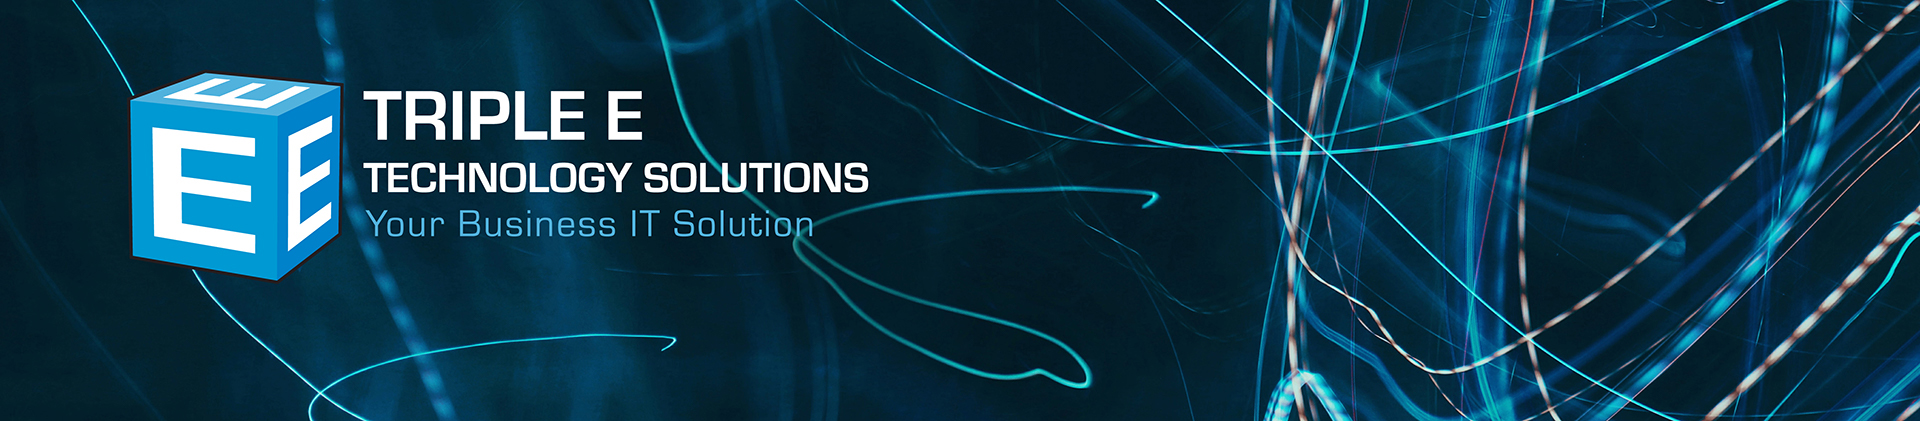
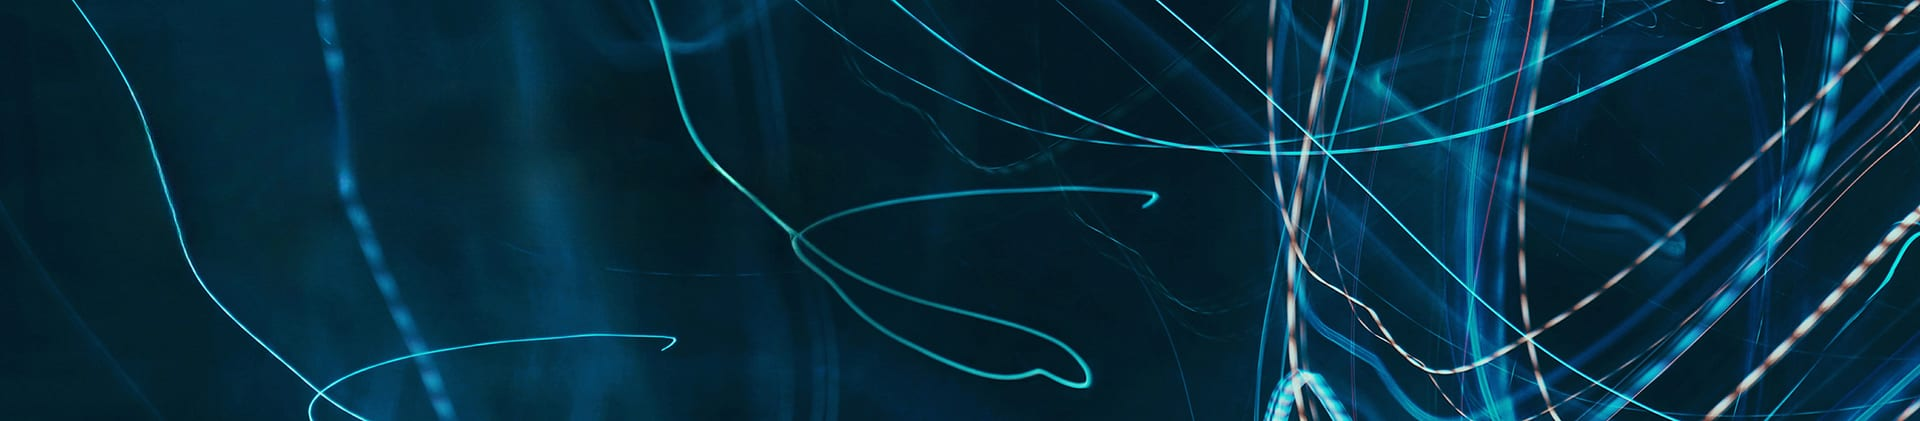
feat(images): replace placeholder art with optimized real photography
Swaps the placeholder assets for real imagery and brings every source file
down to a sensible size. Several placeholders were not images at all:
consulting-partnership.jpg and mdr-partnership.jpg were one-line text
files, msp-partnership.jpg and security-partnership.jpg were SVGs with a
.jpg extension, and team-collaboration.jpg was a 1x1 pixel.

The homepage service cards were hotlinking Unsplash at a hardcoded
w=400&h=250, capping the source at 400px for a slot that renders 384px
CSS -- soft on any 2x display, and a third-party dependency on the
homepage. They are now local files.

Every source is re-encoded to progressive mozjpeg q82 and capped at ~2x
the largest width it ever renders at (1920 for full-bleed backgrounds,
1400 for the 600x500 content slots, 1200 for the service cards). The
originals were full-resolution downloads, up to 7360px and 7.7 MB each.

Total: 20.9 MB -> 1.1 MB, 94.7% smaller, with no visible change at any
rendered size.

Also drops four unreferenced icons (company, detection, training,
logo-lg) and the orphaned hero-xl.png now that hero-xl.jpg replaces it,
and fixes two dead links: the Hero CTA pointed at /services and the
About Us quick link at /partners, neither of which is a route.

diff --git a/src/components/ServiceSnippets/ServiceSnippets.tsx b/src/components/ServiceSnippets/ServiceSnippets.tsx
@@ -8,24 +8,21 @@ const ServiceSnippets = () => {
       title: 'Cybersecurity',
       description:
         "Cybersecurity doesn't have to be overwhelming. At the heart of every strong defense is a secure foundation—one that protects your data, prepares your team, and puts the right tools in...",
-      image:
-        'https://images.unsplash.com/photo-1558494949-ef010cbdcc31?w=400&h=250&fit=crop&auto=format',
+      image: '/images/homepage-service-card-cybersecurity.jpg',
     },
     {
       id: 2,
       title: 'Consulting Services',
       description:
         "At Triple E Technology Solutions, we don't just fix problems—we help you build the right tech foundation to grow, thrive, and innovate. We partner with businesses to deliver efficient, effective IT solutions tailored to your...",
-      image:
-        'https://images.unsplash.com/photo-1454165804606-c3d57bc86b40?w=400&h=250&fit=crop&auto=format',
+      image: '/images/homepage-service-card-consulting.jpg',
     },
     {
       id: 3,
       title: 'Managed Service Provider',
       description:
         "At Triple E Technology Solutions, we believe great technology shouldn't just run your business—it should empower it. As your Managed Service Provider (MSP), we take the stress out of...",
-      image:
-        'https://images.unsplash.com/photo-1550751827-4bd374c3f58b?w=400&h=250&fit=crop&auto=format',
+      image: '/images/homepage-service-card-msp.jpg',
     },
   ];
 

diff --git a/src/components/Hero/Hero.tsx b/src/components/Hero/Hero.tsx
@@ -11,7 +11,7 @@ const Hero = () => {
         {/* Background Image with Next.js Optimization */}
         <div className={styles.imageWrapper}>
           <Image
-            src='/images/hero-xl.png'
+            src='/images/hero-xl.jpg'
             alt='Triple E Tech: Blue and green abstract technology background with electrical current patterns'
             fill
             priority
@@ -50,7 +50,10 @@ const Hero = () => {
               <Link href='/contact' className={styles.primaryCta}>
                 Get Started
               </Link>
-              <Link href='/services' className={styles.secondaryCta}>
+              <Link
+                href='/managed-service-provider'
+                className={styles.secondaryCta}
+              >
                 Our Services
               </Link>
             </div>

diff --git a/src/app/about-us/page.tsx b/src/app/about-us/page.tsx
@@ -73,7 +73,7 @@ const CompanyPage = () => {
     {
       title: 'Our Partners',
       description: 'Industry leaders we work with',
-      href: '/partners',
+      href: '/#partners',
       icon: '/icons/partners-icon.svg',
     },
     {
@@ -308,7 +308,7 @@ const CompanyPage = () => {
               </div>
               <div className={styles.whyUsImage}>
                 <Image
-                  src='/images/team-collaboration.jpg'
+                  src='/images/why-triple-e.jpg'
                   alt='Triple E team collaborating on technology solutions'
                   width={600}
                   height={500}

diff --git a/src/app/cybersecurity/page.tsx b/src/app/cybersecurity/page.tsx
@@ -240,7 +240,7 @@ const CybersecurityPage = () => {
               </div>
               <div className={styles.whyUsImage}>
                 <Image
-                  src='/images/security-partnership.jpg'
+                  src='/images/cybersecurity-approach.jpg'
                   alt='Cybersecurity team working together to protect business systems'
                   width={600}
                   height={500}

diff --git a/src/app/managed-service-provider/page.tsx b/src/app/managed-service-provider/page.tsx
@@ -250,7 +250,7 @@ const ManagedServiceProviderPage = () => {
               </div>
               <div className={styles.whyUsImage}>
                 <Image
-                  src='/images/msp-partnership.jpg'
+                  src='/images/managed-services-team.jpg'
                   alt='Triple E team providing managed IT services support'
                   width={600}
                   height={500}

diff --git a/src/components/CybersecurityHero/CybersecurityHero.tsx b/src/components/CybersecurityHero/CybersecurityHero.tsx
@@ -11,7 +11,7 @@ const CybersecurityHero = () => {
         {/* Background Image with Next.js Optimization */}
         <div className={styles.imageWrapper}>
           <Image
-            src='/images/surveillance.jpg'
+            src='/images/homepage-cybersecurity.jpg'
             alt='Triple E Tech: Monochromatic map of the world.'
             fill
             priority
